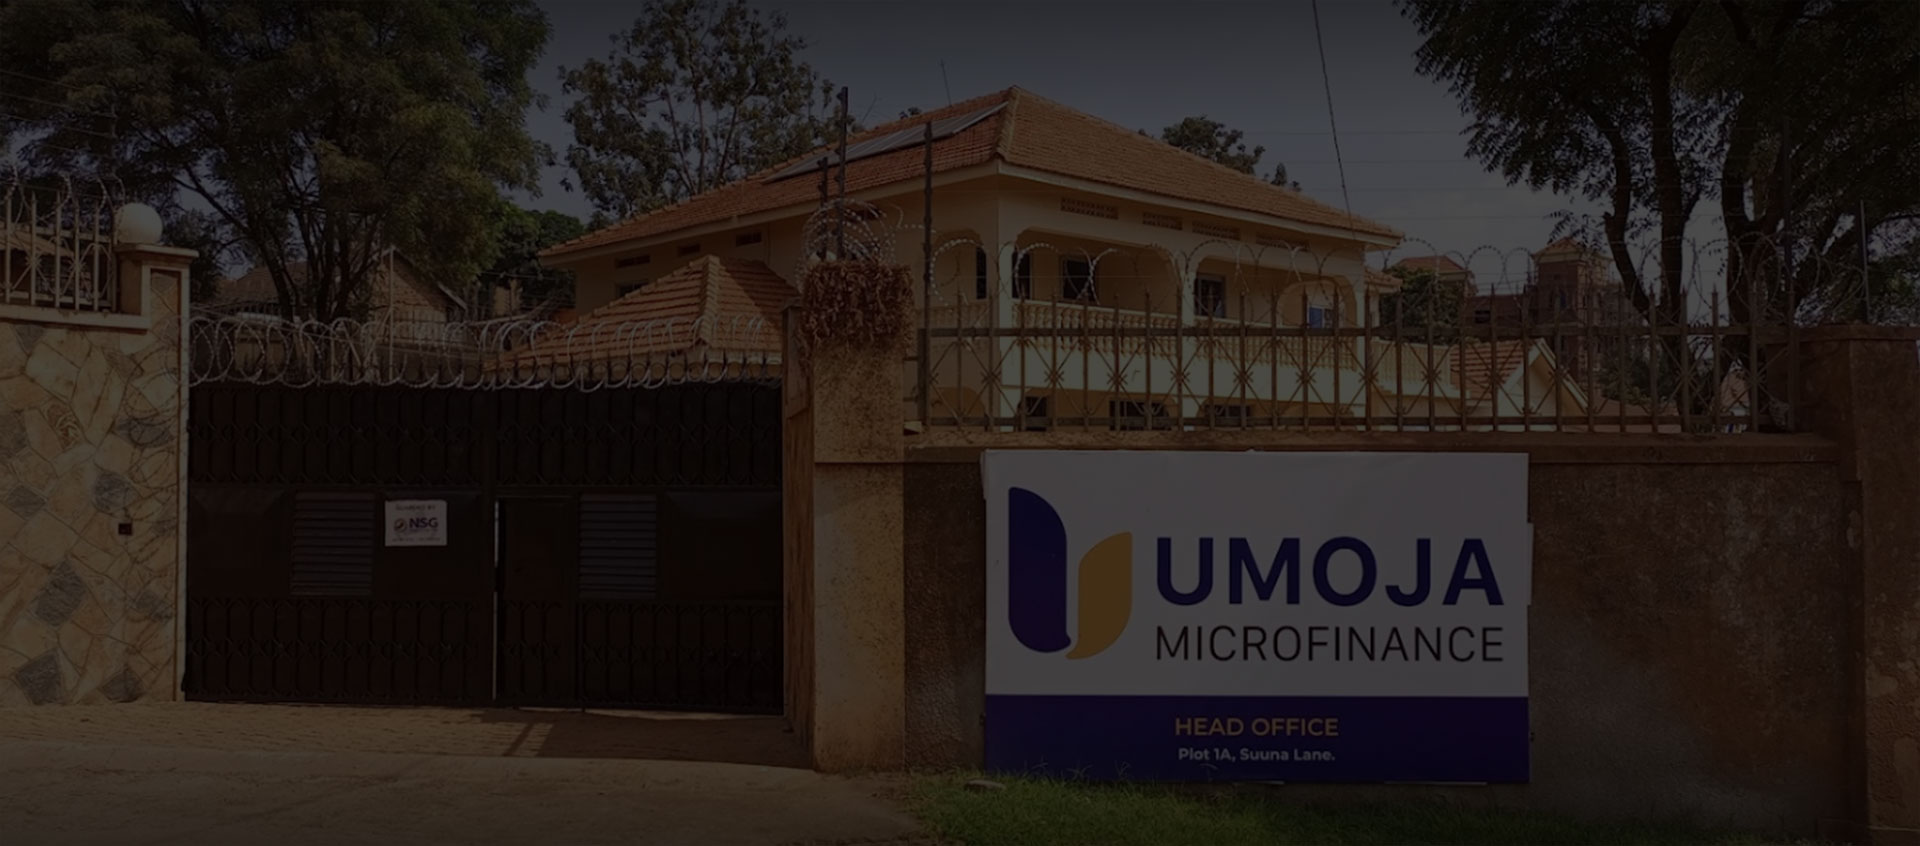
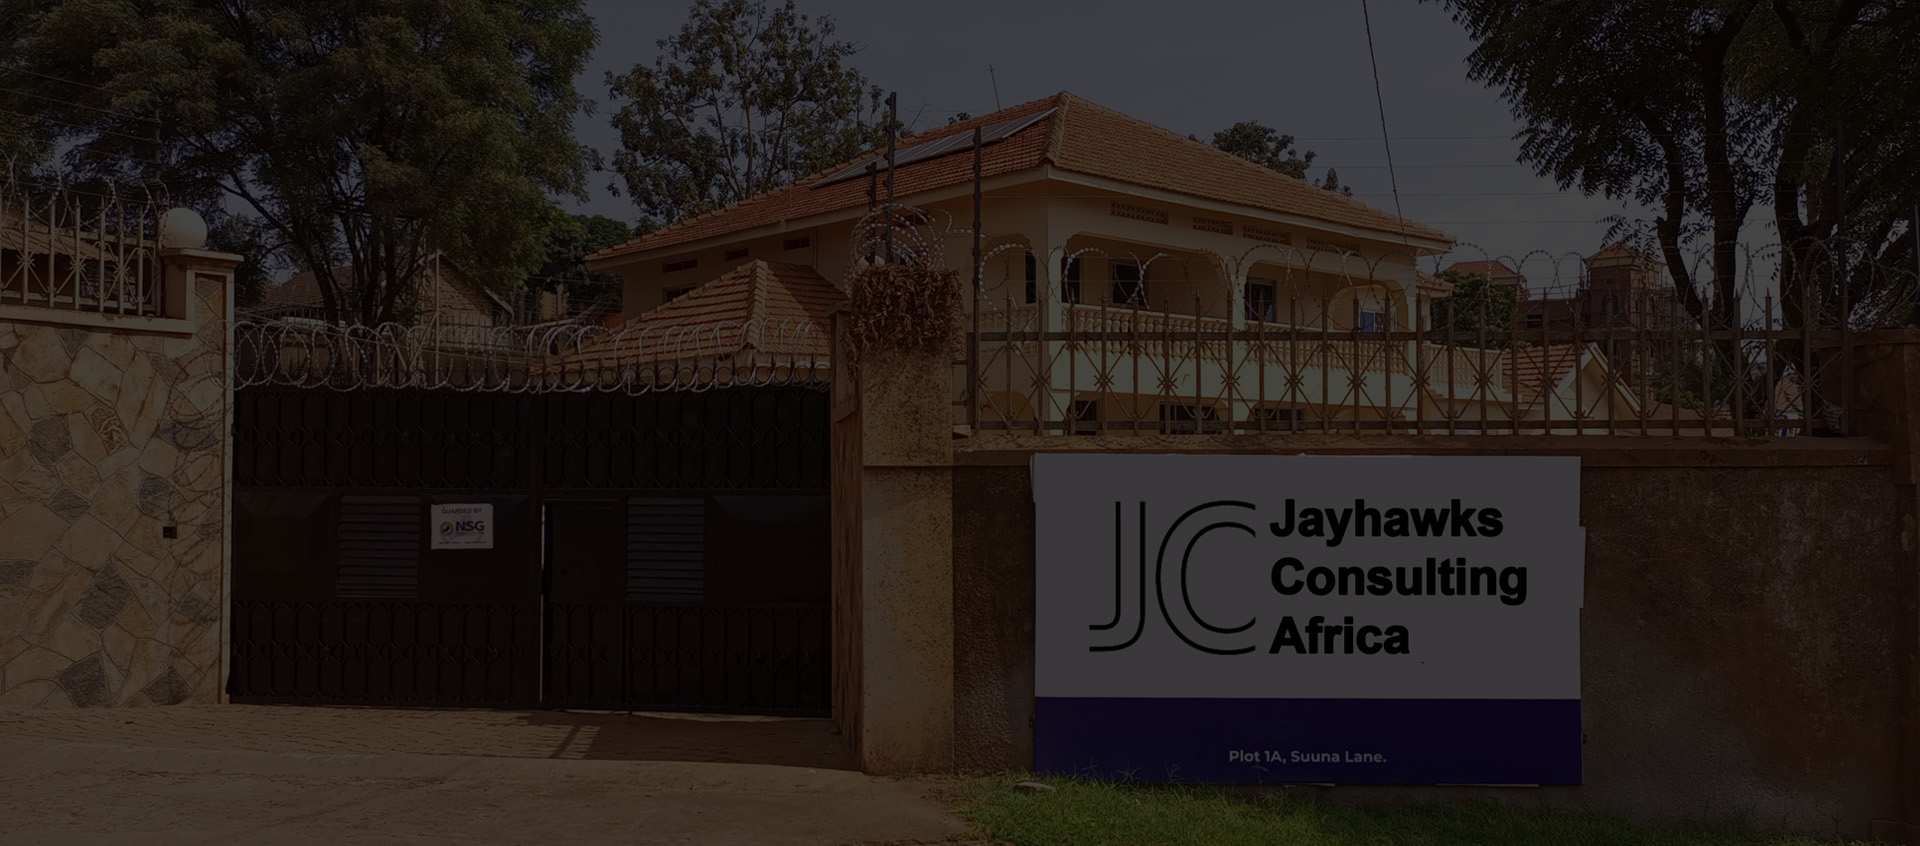
ok

diff --git a/JayHawks-JS/src/modFrontPage/landing/Landing.js b/JayHawks-JS/src/modFrontPage/landing/Landing.js
@@ -2,17 +2,17 @@ import React from "react";
 
 export default function Landing() {
   return (
-    <section className="text-white h-100 bg-black flex justify-center">
+    <section className="text-white bg-black flex justify-center p-2 lg:p-5">
       <div className=" max-w-screen-lg grid grid-cols-1 lg:grid-cols-2">
         <div className="flex items-center justify-center p-2">
-          <img className="h-80" src="/images/hero.jpeg" alt="" />
+          <img className="h-64 lg:h-96" src="/images/herologo.jpeg" alt="" />
         </div>
         <div className="flex items-center justify-center p-3 ">
-          <div className="grid">
-            <h1 className="text-5xl font-bold leading-none sm:text-6xl">
+          <div className="grid gap-6 lg:gap-10">
+            <p className="text-5xl lg:text-6xl font-bold text-center lg:text-left lg:px-5">
               Jayhawks Consulting Africa
-            </h1>
-            <p className="grid grid-cols-1 gap-3">
+            </p>
+            <p className="grid grid-cols-1 gap-3 text-center lg:text-left lg:px-5">
               <div>Grow Your Businesswith</div>
               <div>Website Coming Soon.......</div>
             </p>

diff --git a/JayHawks-JS/src/modFrontPage/components/layout/Layout.js b/JayHawks-JS/src/modFrontPage/components/layout/Layout.js
@@ -6,13 +6,11 @@ import Footer from "./Footer";
 
 const Layout = () => {
   return (
-    <div className="bg-white bg-no-repeat bg-fixed w-screen h-screen grid grid-cols-1 grid-rows-threeRows xl:max-w-screen-3xl mx-auto">
+    <div className="bg-white bg-no-repeat bg-fixed w-screen h-screen grid grid-cols-1 grid-rows-threeRows  xl:max-w-screen-3xl  mx-auto">
       <Header />
-      <div className="grid grid-cols-1 content-center overflow-hidden">
-        <div className="overflow-y-auto">
-          <Outlet />
-        </div>
-      </div>
+
+      <Outlet />
+
       <Footer />
     </div>
   );

diff --git a/JayHawks-JS/src/modFrontPage/components/layout/Footer.js b/JayHawks-JS/src/modFrontPage/components/layout/Footer.js
@@ -2,7 +2,7 @@ import React from "react";
 
 const Footer = () => {
   return (
-    <div className="bg-white flex justify-center items-center text-center text-sm">
+    <div className="flex justify-center items-center text-center text-sm">
       <p className="text-uppercase font-weight-bold text-black">
         {/* Copyright © {new Date().getFullYear()}{" "} */}
         <a href="https://grapestl.com/" className="font-bold">
